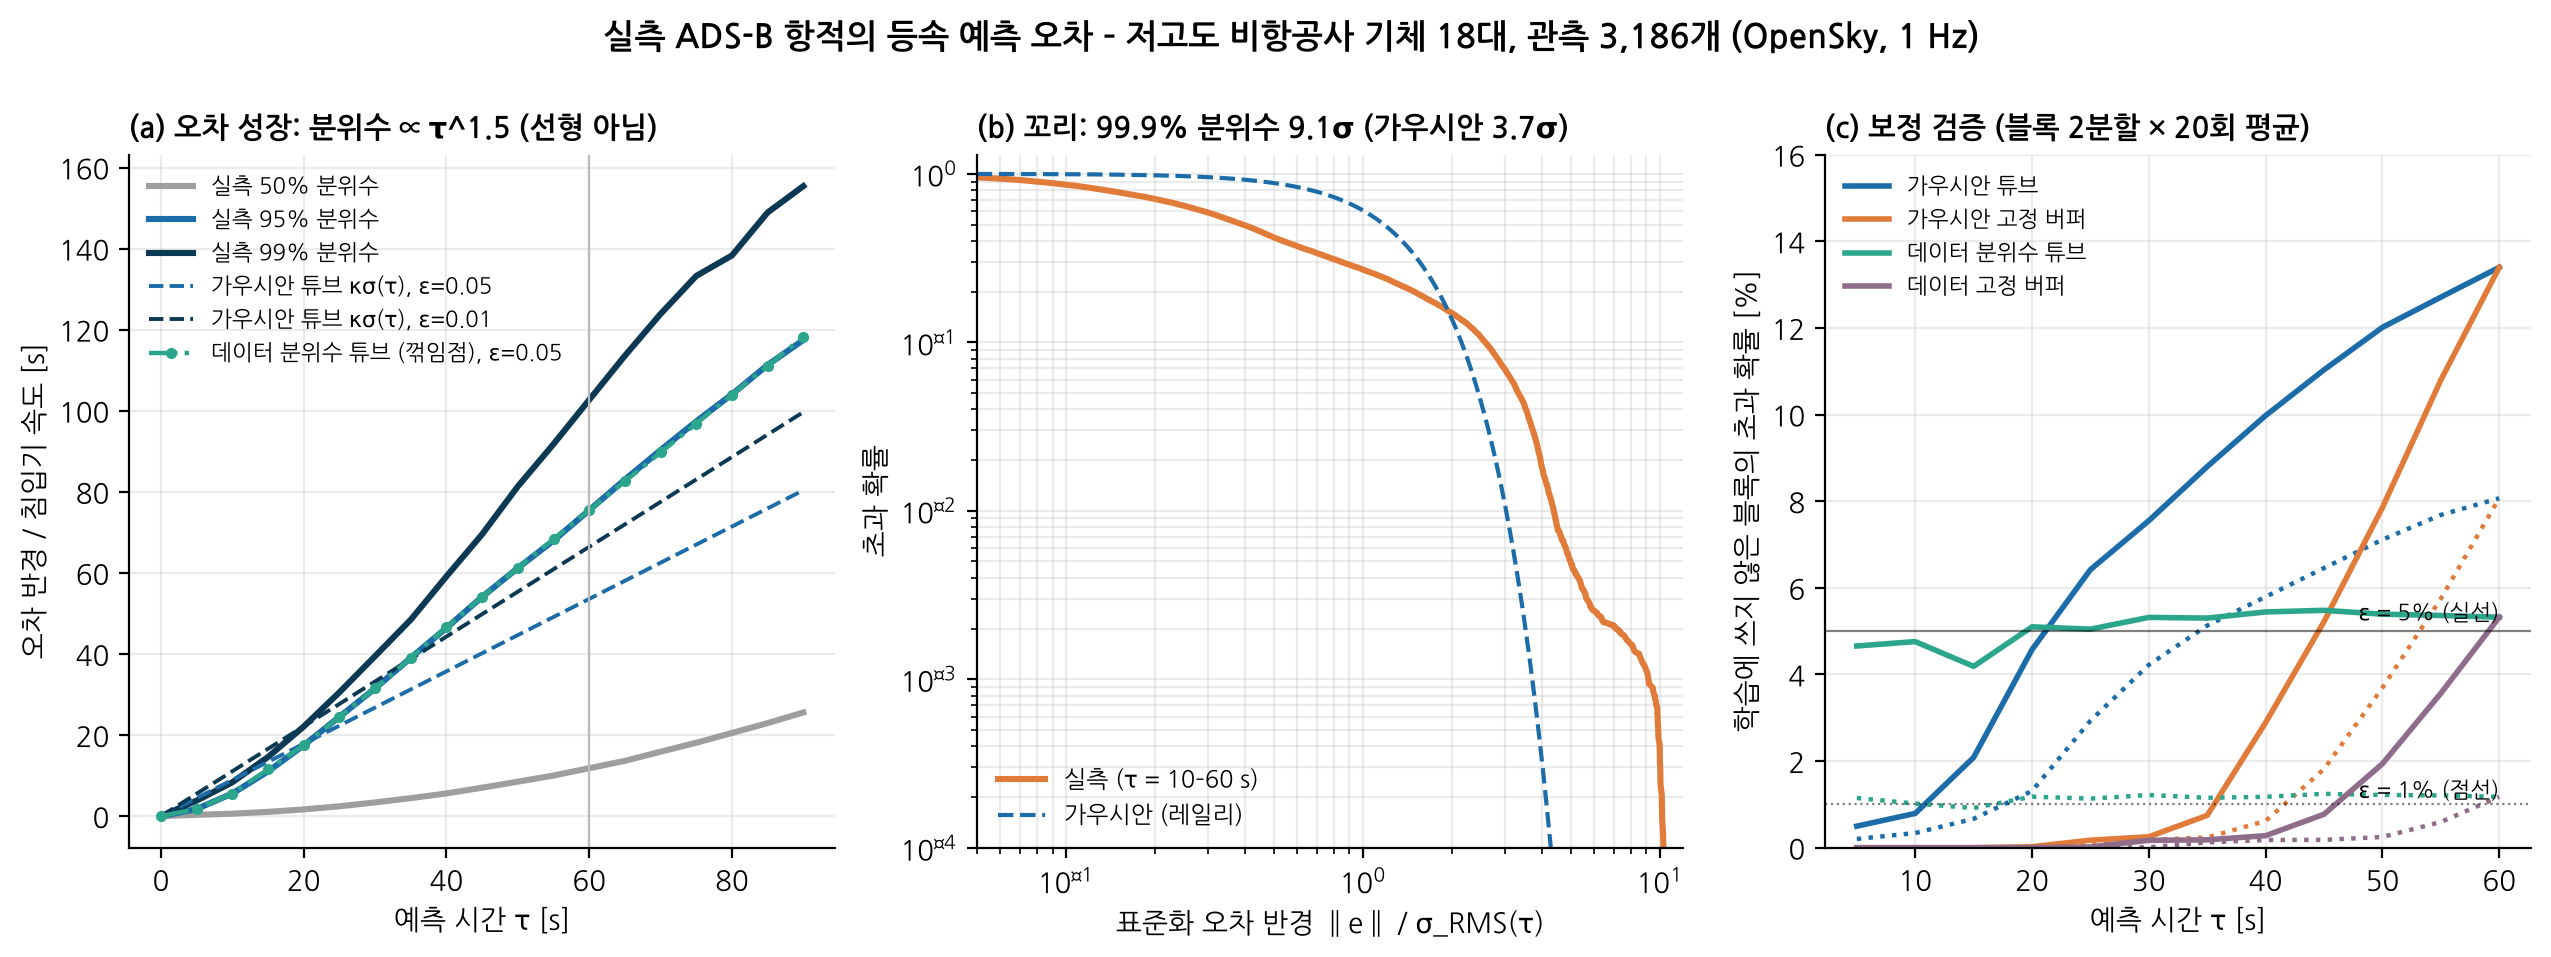
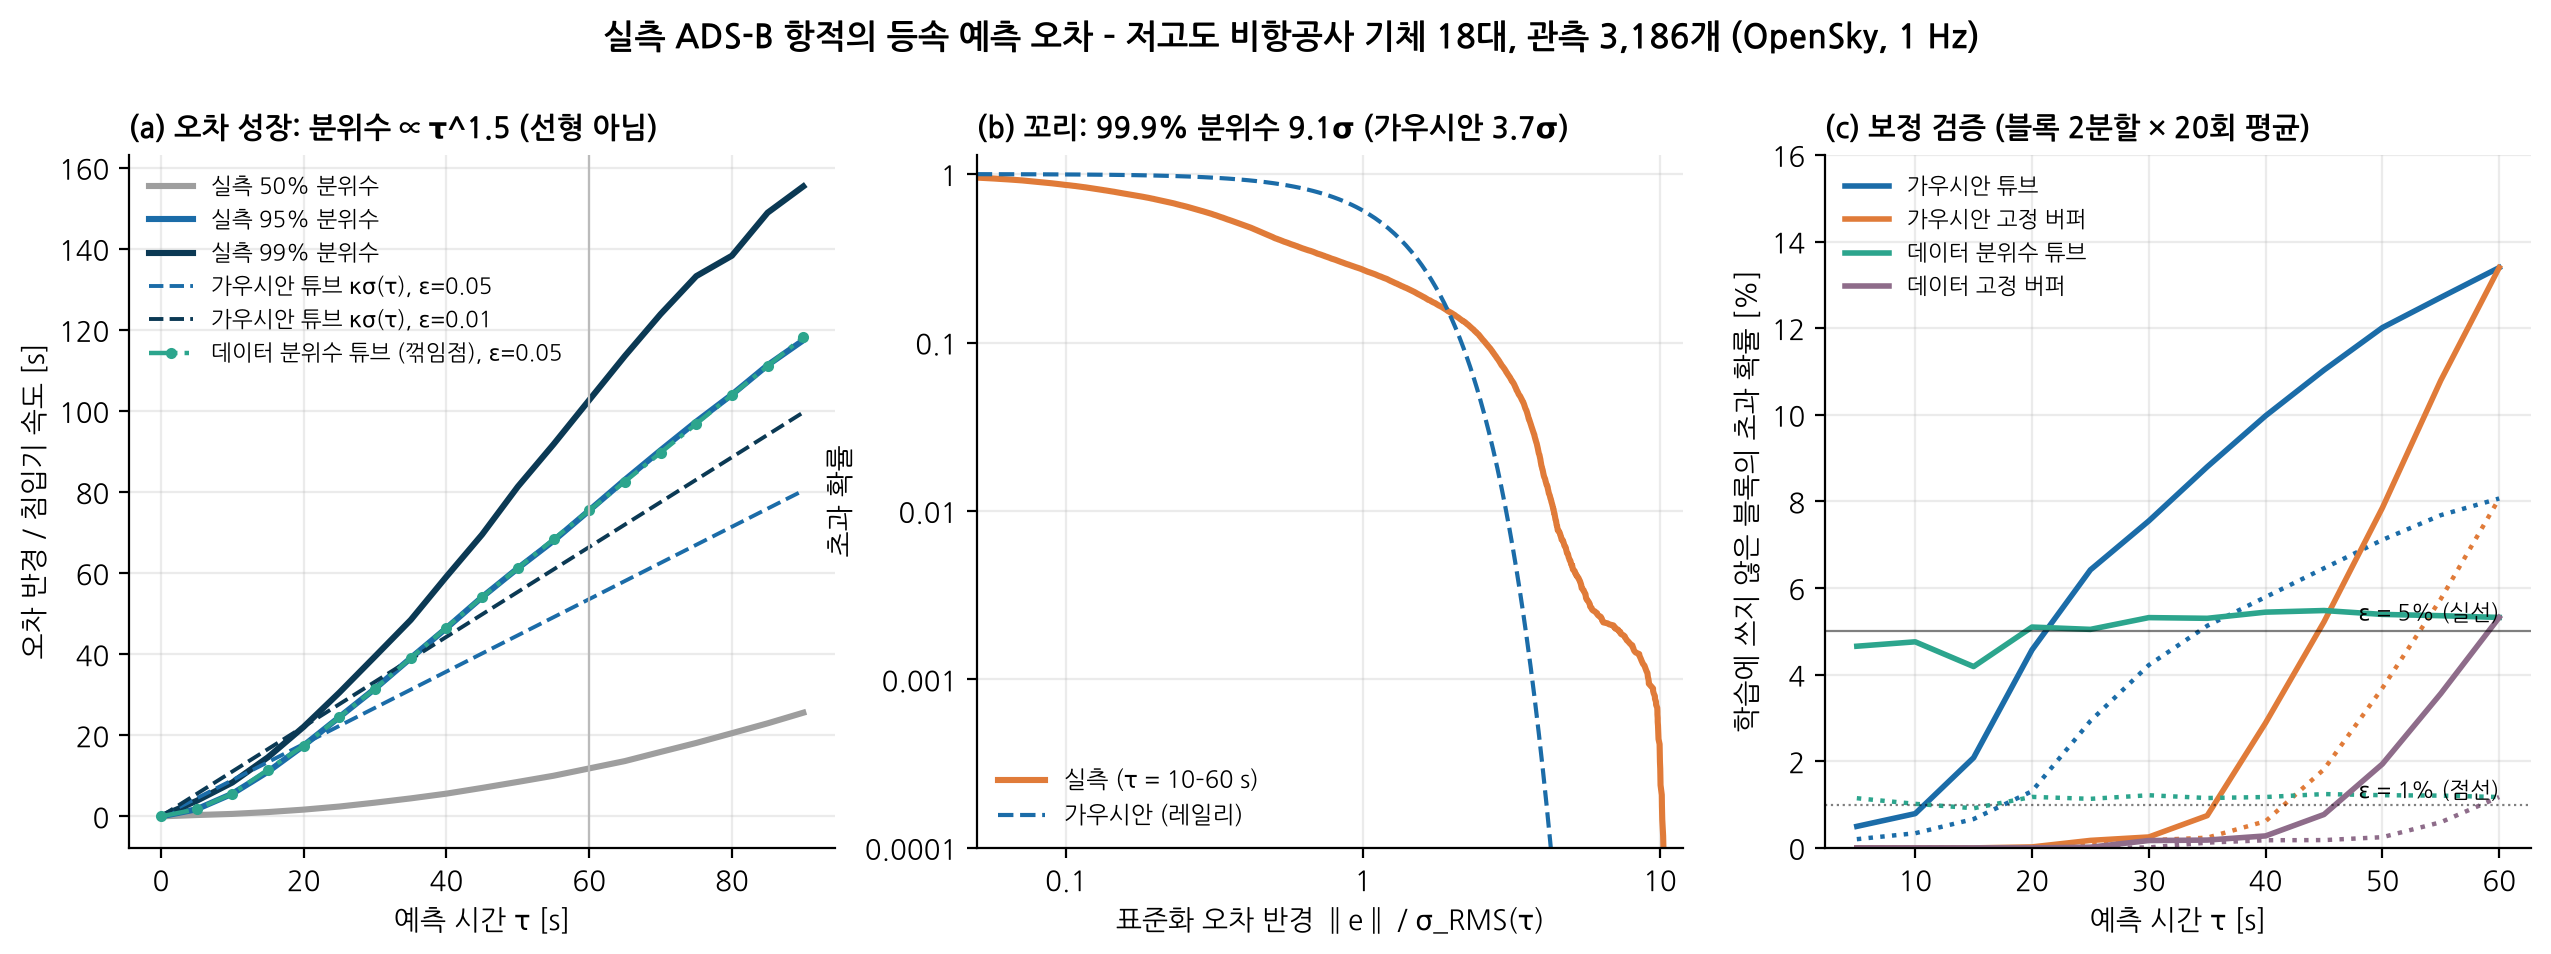
E11: scale real intruder tracks to drone speeds; fix F20 tick labels
Claude-Session: https://claude.ai/code/session_01PMzL383y1CQVyfmPbjyeSP

diff --git a/scripts/run_e11.py b/scripts/run_e11.py
@@ -2,8 +2,11 @@
 
 설정
 - 드론: E10 과 같은 판교 배송 임무(15–18시 GFS 바람), 처음에는 침입기를 모름 → 장애물 없는 계획으로 출발
-- 침입기: 시험 폴드의 실측 1 Hz 항적 구간(응급 헬기·일반 항공). 처음 탐지 시각 t_pop 에서 L 초 뒤
-  등속 예측 위치가 드론의 공칭 위치와 겹치도록 회전·평행이동(충돌 코스, 스트레스 시험). 이후 궤적은 실측 그대로.
+- 침입기: 시험 폴드의 실측 1 Hz 항적 구간(응급 헬기·일반 항공). 시간·선회 이력은 그대로 두고 공간만
+  s = U/V0 배 축소해 속도 U ∈ [8, 30] m/s 의 저속 침입기(다른 드론·경량 헬기, E10 과 같은 범위)로 만든다
+  (가정: 속도 정규화 오차 ‖e‖/V 의 분포가 속도와 무관 – 선회율이 같으면 위치 오차는 속도에 비례).
+  처음 탐지 시각 t_pop 에서 L 초 뒤 등속 예측 위치가 드론의 공칭 위치와 겹치도록 회전·평행이동(충돌 코스).
+  반경 R ∈ [40, 150] m (E10 과 같음), 충돌 = R + 0.5 m 이내.
 - 감시: PERIOD 초마다 침입기 상태(위치·ADS-B 보고 속도)를 관측 → 등속 예측 + 팽창 튜브(예측 지평 H 초)
   → 남은 경로와 충돌이 예상되면 현재 위치에서 재계획(지연 3 s)
 - 방법: N(팽창 없음), G(ε) 가우시안 튜브, B(ε) 가우시안 고정 버퍼, Q(ε) 데이터 분위수 튜브
@@ -32,7 +35,7 @@ from dpo import config as C  # noqa: E402
 H = 20.0                  # 튜브 예측 지평 [s] (재관측 주기 + 여유)
 PERIOD = 5.0              # 감시 갱신 주기 [s]
 LATENCY = 3.0
-R_NMAC = 152.4            # 근접 공중 충돌(NMAC) 수평 기준 500 ft
+R_NMAC = 152.4            # (원래 속도 그대로 쓰는 민감도 실험용) 근접 공중 충돌 수평 기준 500 ft
 MARGIN = 15.0
 SEG = 150.0               # 침입기 실측 구간 길이 [s]
 KN = [0.0, 5.0, 10.0, 15.0, 20.0]
@@ -73,18 +76,19 @@ def tube_knots(model, kind, eps, V):
 
 # ------------------------------------------------------------------ 침입기 (실측 항적 변환)
 class Intruder:
-    def __init__(self, tr, i0, t_pop, L, heading, D):
-        self.tr, self.i0, self.t_pop = tr, i0, t_pop
+    def __init__(self, tr, i0, t_pop, L, heading, D, U=None, R=R_NMAC):
+        self.tr, self.i0, self.t_pop, self.R = tr, i0, t_pop, R
         v0 = velocity(tr, i0)
         h0 = math.atan2(v0[0], v0[1])
         d = heading - h0
-        self.c, self.s = math.cos(d), math.sin(d)
+        self.k = 1.0 if U is None else U / math.hypot(*v0)        # 공간 축소 배율
+        self.c, self.s = math.cos(d) * self.k, math.sin(d) * self.k
         rv = self.rot(*v0)
         self.P0 = (D[0] - L * rv[0], D[1] - L * rv[1])
         self.s0 = tr["t"][i0]
         self.s_end = min(tr["t"][-1], self.s0 + SEG)
 
-    def rot(self, x, y):           # 방위각(북 기준 시계방향)을 d 만큼 회전
+    def rot(self, x, y):           # 방위각(북 기준 시계방향)을 d 만큼 회전 + 배율 k
         return (x * self.c + y * self.s, -x * self.s + y * self.c)
 
     def pos(self, t_rel):
@@ -112,7 +116,7 @@ class Intruder:
         x, y, _ = self.pos(np.array([t_rel]))
         x, y = float(x[0]), float(y[0])
         t_end = min(t_rel + H, self.t_pop + (self.s_end - self.s0))
-        return [DynObstacle(name="intruder", kind="cylinder", radius=R_NMAC, margin=MARGIN, z_min=0.0, z_max=5000.0,
+        return [DynObstacle(name="intruder", kind="cylinder", radius=self.R, margin=MARGIN, z_min=0.0, z_max=5000.0,
                             path=[dict(x=x, y=y, t=t_rel), dict(x=x + vx * (t_end - t_rel), y=y + vy * (t_end - t_rel),
                                                                    t=t_end)],
                             t_start=t_rel, t_end=t_end, t_obs=t_rel, tube=tube_knots(model, kind, eps, V))]
@@ -149,7 +153,7 @@ def run_job(job):
     r0, nom = G_["noms"][h]
     tn = nom["t"] - t_dep
     D = (float(np.interp(t_pop + L, tn, nom["x"])), float(np.interp(t_pop + L, tn, nom["y"])))
-    intr = Intruder(G_["tracks"][k], i0, t_pop, L, heading, D)
+    intr = Intruder(G_["tracks"][k], i0, t_pop, L, heading, D, U=job["U"], R=job["R"])
     out = dict(job={kk: v for kk, v in job.items() if kk != "model"}, V0=float(math.hypot(*velocity(G_["tracks"][k], i0))))
     for kind, eps in METHODS:
         key = kind if eps is None else f"{kind}{eps}"
@@ -169,7 +173,7 @@ def run_job(job):
         d = np.where(act, np.hypot(tr_["x"] - x, tr_["y"] - y), np.inf)
         stuck = sum(1 for e in res["events"] if "기존 경로 유지" in e.get("reason", ""))
         degr = sum(1 for e in res["events"] if (e.get("fallback") or 0) > 0)
-        out[key] = dict(feasible=True, min_sep=float(d.min()), nmac=bool(d.min() <= R_NMAC + 0.5), E=res["E"],
+        out[key] = dict(feasible=True, min_sep=float(d.min() - job["R"]), nmac=bool(d.min() <= job["R"] + 0.5), E=res["E"],
                         T=res["T"], replans=res["n_replans"], stuck=stuck, degraded=degr,
                         cpu=time.perf_counter() - t0)
     return out
@@ -222,7 +226,8 @@ def make_jobs(n_scen, K, seed=2027):
         for kk in range(K):
             k, i0 = pool[fold][int(rng.integers(len(pool[fold])))]
             jobs.append(dict(scen=q, sample=kk, hour=h, fold=fold, t_pop=t_pop, L=L,
-                             heading=float(rng.uniform(0, 2 * np.pi)), k=k, i0=i0, model=models[fold]))
+                             heading=float(rng.uniform(0, 2 * np.pi)), k=k, i0=i0, model=models[fold],
+                             U=float(rng.uniform(8.0, 30.0)), R=float(rng.uniform(40.0, 150.0))))
     return jobs, models, [len(p) for p in pool]
 
 

diff --git a/scripts/analyze_e11.py b/scripts/analyze_e11.py
@@ -53,7 +53,7 @@ def main(name="E11"):
         E = np.array([r[k]["E"] for r in rows]); EN = np.array([r["N"]["E"] for r in rows])
         p, lo, hi = wilson(int(nm.sum()), len(nm))
         M[k] = dict(nmac=int(nm.sum()), n=len(nm), p=p, lo=lo, hi=hi, min_sep_median=float(np.median(ms)),
-                    p_sep_lt_300=float(np.mean(ms < 300)), energy_vs_N=boot((E / EN - 1) * 100),
+                    p_sep_lt_100=float(np.mean(ms < 100)), energy_vs_N=boot((E / EN - 1) * 100),
                     E_kJ=boot(E / 1000), replans=float(np.mean([r[k]["replans"] for r in rows])),
                     degraded_frac=float(np.mean([r[k].get("degraded", 0) > 0 for r in rows])),
                     stuck_frac=float(np.mean([r[k].get("stuck", 0) > 0 for r in rows])))
@@ -70,7 +70,7 @@ def main(name="E11"):
     for k in KEYS:
         m = M[k]
         print(f"{k:6s} NMAC {m['nmac']:3d}/{m['n']} = {m['p'] * 100:5.1f}% [{m['lo'] * 100:.1f},{m['hi'] * 100:.1f}] "
-              f"minsep med {m['min_sep_median']:5.0f} P(<300) {m['p_sep_lt_300']:.2f} E vs N {m['energy_vs_N'][0]:+5.1f}% "
+              f"minsep med {m['min_sep_median']:5.0f} P(<100) {m['p_sep_lt_100']:.2f} E vs N {m['energy_vs_N'][0]:+5.1f}% "
               f"replans {m['replans']:.1f} degraded {m['degraded_frac']:.2f} stuck {m['stuck_frac']:.2f}")
     print(json.dumps(out["paired"], indent=0)); print(json.dumps(out["energy_paired"], indent=0))
     figure(out, rows)
@@ -97,8 +97,8 @@ def figure(out, rows):
                yerr=[[max(m["p"] - m["lo"], 0) * 100], [max(m["hi"] - m["p"], 0) * 100]], capsize=3)
         ax.text(i, m["hi"] * 100 + 0.8, f"{m['nmac']}/{m['n']}", ha="center", fontsize=7.5)
     ax.set_xticks(xs); ax.set_xticklabels([LAB[k].replace(" ε", "\nε") for k in KEYS], fontsize=7.5)
-    ax.set_ylabel("NMAC 확률 [%] (Wilson 95% CI)")
-    ax.set_title("(a) 근접 공중 충돌 (수평 152 m 이내)", loc="left", fontsize=10.5)
+    ax.set_ylabel("충돌 확률 [%] (Wilson 95% CI)")
+    ax.set_title("(a) 충돌 확률 (반경 R 이내)", loc="left", fontsize=10.5)
     ax.grid(alpha=0.25, axis="y")
     ax = axs[1]
     for k in KEYS:
@@ -107,20 +107,20 @@ def figure(out, rows):
                                                               [m["energy_vs_N"][2] - m["energy_vs_N"][0]]],
                     yerr=[[max(m["p"] - m["lo"], 0) * 100], [max(m["hi"] - m["p"], 0) * 100]], fmt="o" if "0.01" not in k
                     else "s", color=COL[k[0]], ms=7, capsize=2, label=LAB[k])
-    ax.set_xlabel("같은 조우의 공칭 대비 에너지 [%]"); ax.set_ylabel("NMAC 확률 [%]")
+    ax.set_xlabel("같은 조우의 공칭 대비 에너지 [%]"); ax.set_ylabel("충돌 확률 [%]")
     ax.set_title("(b) 위험–에너지 (왼쪽 아래가 좋음)", loc="left", fontsize=10.5)
     ax.legend(frameon=False, fontsize=7.5); ax.grid(alpha=0.25)
     ax = axs[2]
     for k in ("N", "G0.05", "B0.05", "Q0.05"):
         ms = np.sort([r[k]["min_sep"] for r in rows])
         ax.plot(ms, np.arange(1, len(ms) + 1) / len(ms) * 100, color=COL[k[0]], lw=2, label=LAB[k])
-    ax.axvline(152.4, color="#D7263D", lw=1, ls="--"); ax.text(160, 3, "NMAC 152 m", color="#D7263D", fontsize=8)
-    ax.set_xlim(0, 1500)
-    ax.set_xlabel("실제 궤적과의 최소 이격 [m]"); ax.set_ylabel("누적 비율 [%]")
+    ax.axvline(0, color="#D7263D", lw=1, ls="--"); ax.text(8, 3, "충돌", color="#D7263D", fontsize=8)
+    ax.set_xlim(-150, 800)
+    ax.set_xlabel("실제 궤적과의 최소 이격 (반경 R 제외) [m]"); ax.set_ylabel("누적 비율 [%]")
     ax.set_title("(c) 최소 이격 분포", loc="left", fontsize=10.5)
     ax.legend(frameon=False, fontsize=8, loc="lower right"); ax.grid(alpha=0.25)
     p = out["params"]
-    fig.suptitle(f"실측 ADS-B 침입기 폐루프 시험 – 조우 {out['n_used']}회, 감시 {p.get('PERIOD', 5):g} s 주기, "
+    fig.suptitle(f"실측 항적(속도 축소) 침입기 폐루프 시험 – 조우 {out['n_used']}회, 감시 {p.get('PERIOD', 5):g} s 주기, "
                  f"튜브 지평 {p.get('H', 20):g} s (교차 적합)", fontweight="bold", y=1.03)
     fig.savefig(C.FIG / "F21_adsb_closed_loop.png")
     plt.close(fig)

diff --git a/scripts/analyze_adsb.py b/scripts/analyze_adsb.py
@@ -204,6 +204,9 @@ def figure(out, err):
     tt_ = stats.t.rvs(max(df, 2.05), size=(400000, 2), random_state=np.random.default_rng(0))
     tt_ = tt_ / np.sqrt(np.mean(tt_ ** 2)); ut = np.sort(np.hypot(tt_[:, 0], tt_[:, 1]))
     ax.set_ylim(1e-4, 1.3); ax.set_xlim(0.05, 12)
+    ax.set_yticks([1, 1e-1, 1e-2, 1e-3, 1e-4]); ax.set_yticklabels(["1", "0.1", "0.01", "0.001", "0.0001"])
+    ax.set_xticks([0.1, 1, 10]); ax.set_xticklabels(["0.1", "1", "10"])
+    ax.minorticks_off()
     ax.set_xlabel("표준화 오차 반경 ‖e‖ / σ_RMS(τ)"); ax.set_ylabel("초과 확률")
     q = out["tail"]["quantiles"]
     ax.set_title(f"(b) 꼬리: 99.9% 분위수 {q['0.999']['data']:.1f}σ (가우시안 {q['0.999']['gaussian']:.1f}σ)",
